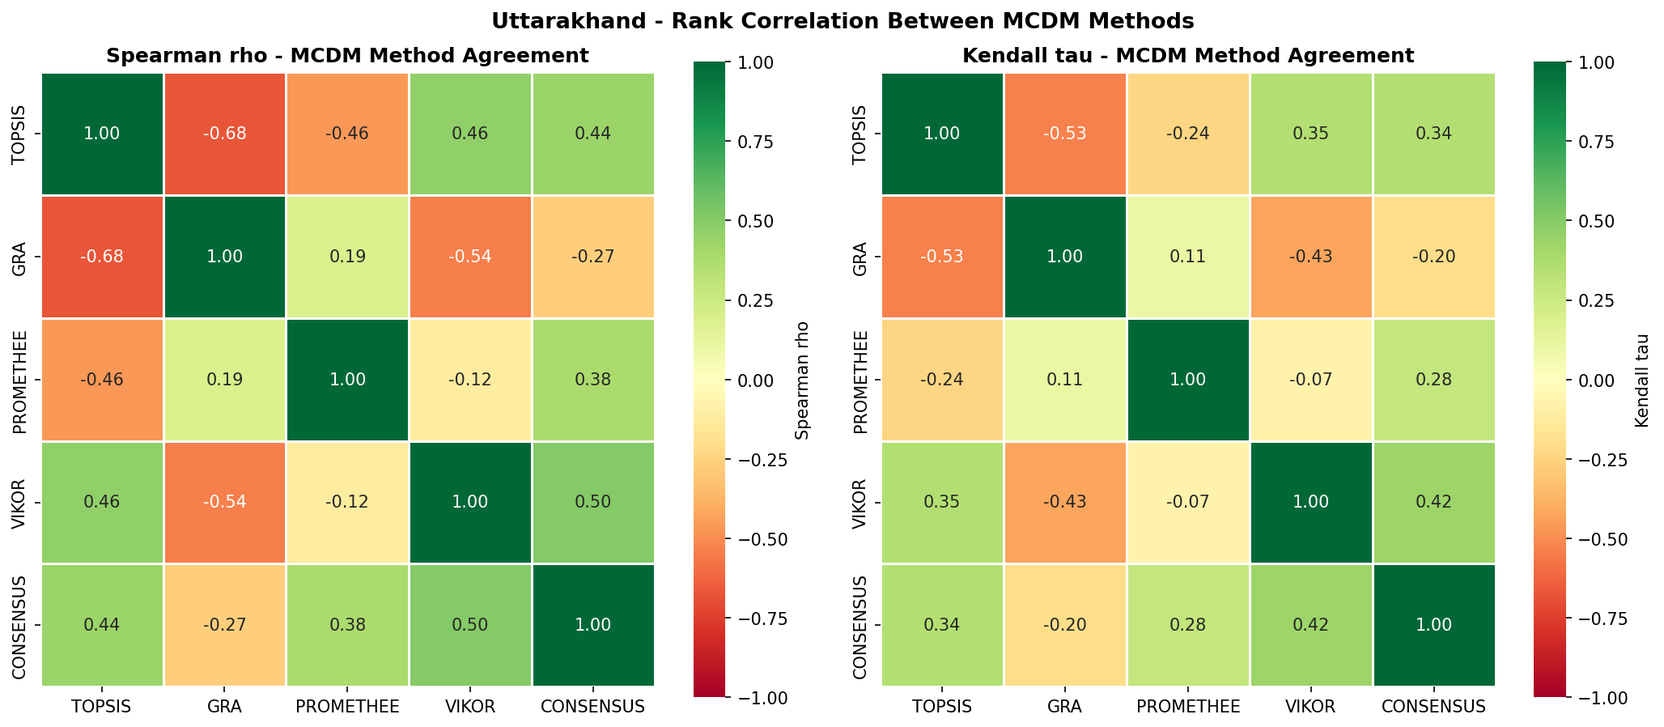
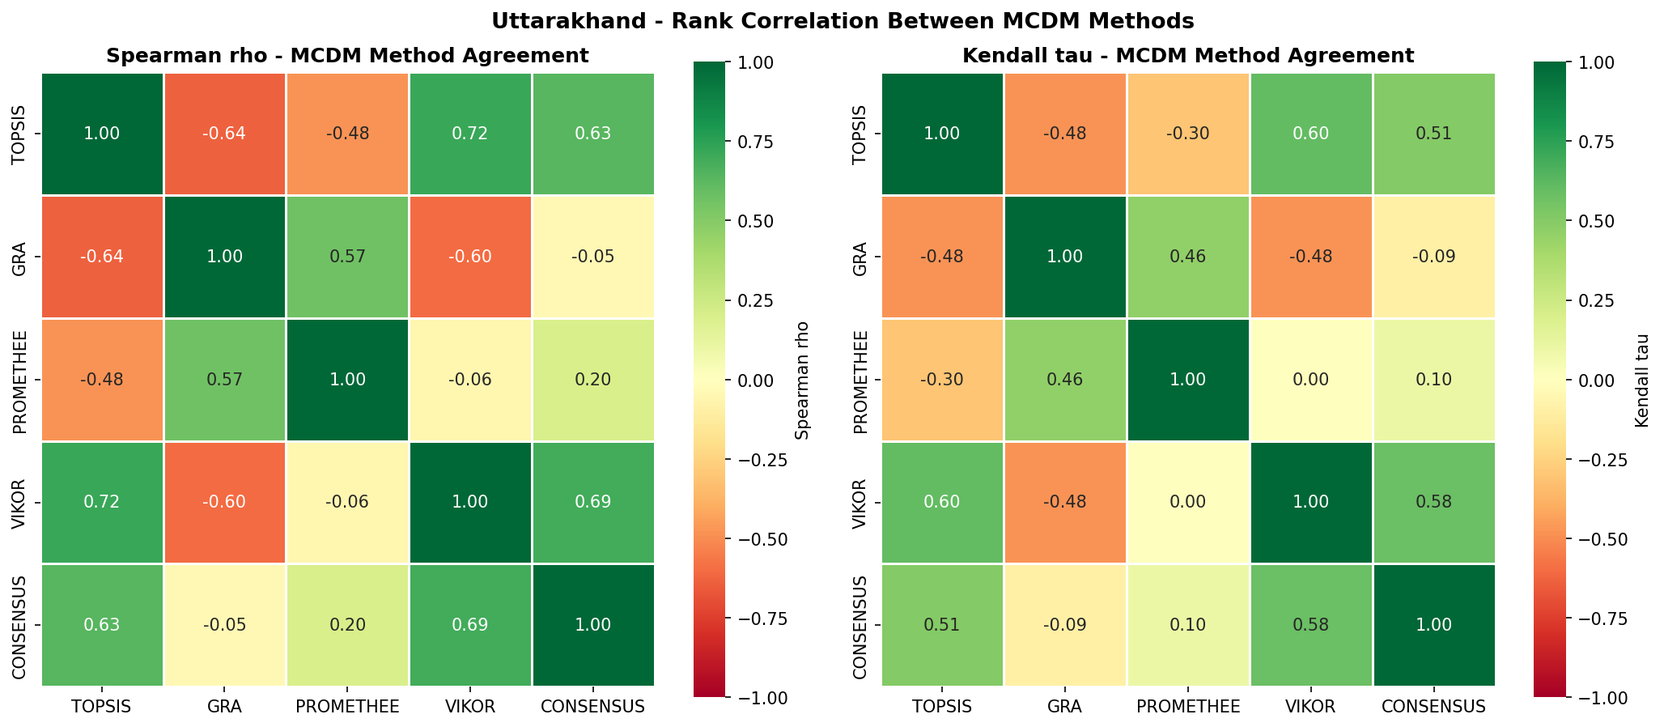
chore(plots): refresh Uttarakhand method-agreement and rank-reversal plots

diff --git a/public/plots/uttarakhand/10_rank_reversal_violin_interactive.html b/public/plots/uttarakhand/10_rank_reversal_violin_interactive.html
@@ -6,6 +6,6 @@
 </head>
 <body>
     <div style="height:100%; width:100%;">                        <script>window.PlotlyConfig = {MathJaxConfig: 'local'};</script>
-        <script charset="utf-8" src="https://cdn.plot.ly/plotly-4.1.1.min.js" integrity="sha256-O24V1F27f8pb0glCkelh3cVHLNiHAJ5gCaVtq2aNch8=" crossorigin="anonymous"></script>                <div id="4254167a-5640-4eeb-8657-a61bd5d6e32b" class="plotly-graph-div" style="height:100%; width:100%;"></div>            <script>                window.PLOTLYENV=window.PLOTLYENV || {};                                if (document.getElementById("4254167a-5640-4eeb-8657-a61bd5d6e32b")) {                    Plotly.newPlot(                        "4254167a-5640-4eeb-8657-a61bd5d6e32b",                        [{"alignmentgroup":"True","box":{"visible":true},"hovertemplate":"Cluster=0\u003cbr\u003eMethod=%{x}\u003cbr\u003eRank=%{y}\u003cextra\u003e\u003c\u002fextra\u003e","legendgroup":"0","marker":{"color":"rgb(228,26,28)"},"name":"0","offsetgroup":"0","orientation":"v","points":"all","scalegroup":"True","showlegend":true,"x":["TOPSIS","TOPSIS","TOPSIS","GRA","GRA","GRA","PROMETHEE","PROMETHEE","PROMETHEE","VIKOR","VIKOR","VIKOR"],"x0":" ","xaxis":"x","y":{"dtype":"i1","bdata":"AQkCBwMIBAIFAQQG"},"y0":" ","yaxis":"y","type":"violin"},{"alignmentgroup":"True","box":{"visible":true},"hovertemplate":"Cluster=1\u003cbr\u003eMethod=%{x}\u003cbr\u003eRank=%{y}\u003cextra\u003e\u003c\u002fextra\u003e","legendgroup":"1","marker":{"color":"rgb(55,126,184)"},"name":"1","offsetgroup":"1","orientation":"v","points":"all","scalegroup":"True","showlegend":true,"x":["TOPSIS","TOPSIS","TOPSIS","GRA","GRA","GRA","PROMETHEE","PROMETHEE","PROMETHEE","VIKOR","VIKOR","VIKOR"],"x0":" ","xaxis":"x","y":{"dtype":"i1","bdata":"AQYICwEDAwIBAQgJ"},"y0":" ","yaxis":"y","type":"violin"},{"alignmentgroup":"True","box":{"visible":true},"hovertemplate":"Cluster=2\u003cbr\u003eMethod=%{x}\u003cbr\u003eRank=%{y}\u003cextra\u003e\u003c\u002fextra\u003e","legendgroup":"2","marker":{"color":"rgb(77,175,74)"},"name":"2","offsetgroup":"2","orientation":"v","points":"all","scalegroup":"True","showlegend":true,"x":["TOPSIS","TOPSIS","TOPSIS","GRA","GRA","GRA","PROMETHEE","PROMETHEE","PROMETHEE","VIKOR","VIKOR","VIKOR"],"x0":" ","xaxis":"x","y":{"dtype":"i1","bdata":"AQIDCAMFBAsNAggE"},"y0":" ","yaxis":"y","type":"violin"},{"alignmentgroup":"True","box":{"visible":true},"hovertemplate":"Cluster=3\u003cbr\u003eMethod=%{x}\u003cbr\u003eRank=%{y}\u003cextra\u003e\u003c\u002fextra\u003e","legendgroup":"3","marker":{"color":"rgb(152,78,163)"},"name":"3","offsetgroup":"3","orientation":"v","points":"all","scalegroup":"True","showlegend":true,"x":["TOPSIS","TOPSIS","TOPSIS","GRA","GRA","GRA","PROMETHEE","PROMETHEE","PROMETHEE","VIKOR","VIKOR","VIKOR"],"x0":" ","xaxis":"x","y":{"dtype":"i1","bdata":"BAECBwUGAQgNBAcB"},"y0":" ","yaxis":"y","type":"violin"},{"alignmentgroup":"True","box":{"visible":true},"hovertemplate":"Cluster=4\u003cbr\u003eMethod=%{x}\u003cbr\u003eRank=%{y}\u003cextra\u003e\u003c\u002fextra\u003e","legendgroup":"4","marker":{"color":"rgb(255,127,0)"},"name":"4","offsetgroup":"4","orientation":"v","points":"all","scalegroup":"True","showlegend":true,"x":["TOPSIS","TOPSIS","TOPSIS","GRA","GRA","GRA","PROMETHEE","PROMETHEE","PROMETHEE","VIKOR","VIKOR","VIKOR"],"x0":" ","xaxis":"x","y":{"dtype":"i1","bdata":"AQkCBwMIBAIFAQQG"},"y0":" ","yaxis":"y","type":"violin"}],                        {"template":{"data":{"barpolar":[{"marker":{"line":{"color":"white","width":0.5},"pattern":{"fillmode":"overlay","size":10,"solidity":0.2}},"type":"barpolar"}],"bar":[{"error_x":{"color":"#2a3f5f"},"error_y":{"color":"#2a3f5f"},"marker":{"line":{"color":"white","width":0.5},"pattern":{"fillmode":"overlay","size":10,"solidity":0.2}},"type":"bar"}],"carpet":[{"aaxis":{"endlinecolor":"#2a3f5f","gridcolor":"#C8D4E3","linecolor":"#C8D4E3","minorgridcolor":"#C8D4E3","startlinecolor":"#2a3f5f"},"baxis":{"endlinecolor":"#2a3f5f","gridcolor":"#C8D4E3","linecolor":"#C8D4E3","minorgridcolor":"#C8D4E3","startlinecolor":"#2a3f5f"},"type":"carpet"}],"choropleth":[{"colorbar":{"outlinewidth":0,"ticks":""},"type":"choropleth"}],"contourcarpet":[{"colorbar":{"outlinewidth":0,"ticks":""},"type":"contourcarpet"}],"contour":[{"colorbar":{"outlinewidth":0,"ticks":""},"colorscale":[[0.0,"#0d0887"],[0.1111111111111111,"#46039f"],[0.2222222222222222,"#7201a8"],[0.3333333333333333,"#9c179e"],[0.4444444444444444,"#bd3786"],[0.5555555555555556,"#d8576b"],[0.6666666666666666,"#ed7953"],[0.7777777777777778,"#fb9f3a"],[0.8888888888888888,"#fdca26"],[1.0,"#f0f921"]],"type":"contour"}],"heatmap":[{"colorbar":{"outlinewidth":0,"ticks":""},"colorscale":[[0.0,"#0d0887"],[0.1111111111111111,"#46039f"],[0.2222222222222222,"#7201a8"],[0.3333333333333333,"#9c179e"],[0.4444444444444444,"#bd3786"],[0.5555555555555556,"#d8576b"],[0.6666666666666666,"#ed7953"],[0.7777777777777778,"#fb9f3a"],[0.8888888888888888,"#fdca26"],[1.0,"#f0f921"]],"type":"heatmap"}],"histogram2dcontour":[{"colorbar":{"outlinewidth":0,"ticks":""},"colorscale":[[0.0,"#0d0887"],[0.1111111111111111,"#46039f"],[0.2222222222222222,"#7201a8"],[0.3333333333333333,"#9c179e"],[0.4444444444444444,"#bd3786"],[0.5555555555555556,"#d8576b"],[0.6666666666666666,"#ed7953"],[0.7777777777777778,"#fb9f3a"],[0.8888888888888888,"#fdca26"],[1.0,"#f0f921"]],"type":"histogram2dcontour"}],"histogram2d":[{"colorbar":{"outlinewidth":0,"ticks":""},"colorscale":[[0.0,"#0d0887"],[0.1111111111111111,"#46039f"],[0.2222222222222222,"#7201a8"],[0.3333333333333333,"#9c179e"],[0.4444444444444444,"#bd3786"],[0.5555555555555556,"#d8576b"],[0.6666666666666666,"#ed7953"],[0.7777777777777778,"#fb9f3a"],[0.8888888888888888,"#fdca26"],[1.0,"#f0f921"]],"type":"histogram2d"}],"histogram":[{"marker":{"pattern":{"fillmode":"overlay","size":10,"solidity":0.2}},"type":"histogram"}],"mesh3d":[{"colorbar":{"outlinewidth":0,"ticks":""},"type":"mesh3d"}],"parcoords":[{"line":{"colorbar":{"outlinewidth":0,"ticks":""}},"type":"parcoords"}],"pie":[{"automargin":true,"type":"pie"}],"scatter3d":[{"line":{"colorbar":{"outlinewidth":0,"ticks":""}},"marker":{"colorbar":{"outlinewidth":0,"ticks":""}},"type":"scatter3d"}],"scattercarpet":[{"marker":{"colorbar":{"outlinewidth":0,"ticks":""}},"type":"scattercarpet"}],"scattergeo":[{"marker":{"colorbar":{"outlinewidth":0,"ticks":""}},"type":"scattergeo"}],"scattergl":[{"marker":{"colorbar":{"outlinewidth":0,"ticks":""}},"type":"scattergl"}],"scattermap":[{"marker":{"colorbar":{"outlinewidth":0,"ticks":""}},"type":"scattermap"}],"scatterpolargl":[{"marker":{"colorbar":{"outlinewidth":0,"ticks":""}},"type":"scatterpolargl"}],"scatterpolar":[{"marker":{"colorbar":{"outlinewidth":0,"ticks":""}},"type":"scatterpolar"}],"scatter":[{"fillpattern":{"fillmode":"overlay","size":10,"solidity":0.2},"type":"scatter"}],"scatterternary":[{"marker":{"colorbar":{"outlinewidth":0,"ticks":""}},"type":"scatterternary"}],"surface":[{"colorbar":{"outlinewidth":0,"ticks":""},"colorscale":[[0.0,"#0d0887"],[0.1111111111111111,"#46039f"],[0.2222222222222222,"#7201a8"],[0.3333333333333333,"#9c179e"],[0.4444444444444444,"#bd3786"],[0.5555555555555556,"#d8576b"],[0.6666666666666666,"#ed7953"],[0.7777777777777778,"#fb9f3a"],[0.8888888888888888,"#fdca26"],[1.0,"#f0f921"]],"type":"surface"}],"table":[{"cells":{"fill":{"color":"#EBF0F8"},"line":{"color":"white"}},"header":{"fill":{"color":"#C8D4E3"},"line":{"color":"white"}},"type":"table"}]},"layout":{"annotationdefaults":{"arrowcolor":"#2a3f5f","arrowhead":0,"arrowwidth":1},"autotypenumbers":"strict","coloraxis":{"colorbar":{"outlinewidth":0,"ticks":""}},"colorscale":{"diverging":[[0,"#8e0152"],[0.1,"#c51b7d"],[0.2,"#de77ae"],[0.3,"#f1b6da"],[0.4,"#fde0ef"],[0.5,"#f7f7f7"],[0.6,"#e6f5d0"],[0.7,"#b8e186"],[0.8,"#7fbc41"],[0.9,"#4d9221"],[1,"#276419"]],"sequential":[[0.0,"#0d0887"],[0.1111111111111111,"#46039f"],[0.2222222222222222,"#7201a8"],[0.3333333333333333,"#9c179e"],[0.4444444444444444,"#bd3786"],[0.5555555555555556,"#d8576b"],[0.6666666666666666,"#ed7953"],[0.7777777777777778,"#fb9f3a"],[0.8888888888888888,"#fdca26"],[1.0,"#f0f921"]],"sequentialminus":[[0.0,"#0d0887"],[0.1111111111111111,"#46039f"],[0.2222222222222222,"#7201a8"],[0.3333333333333333,"#9c179e"],[0.4444444444444444,"#bd3786"],[0.5555555555555556,"#d8576b"],[0.6666666666666666,"#ed7953"],[0.7777777777777778,"#fb9f3a"],[0.8888888888888888,"#fdca26"],[1.0,"#f0f921"]]},"colorway":["#636efa","#EF553B","#00cc96","#ab63fa","#FFA15A","#19d3f3","#FF6692","#B6E880","#FF97FF","#FECB52"],"font":{"color":"#2a3f5f"},"geo":{"bgcolor":"white","lakecolor":"white","landcolor":"white","showlakes":true,"showland":true,"subunitcolor":"#C8D4E3"},"hoverlabel":{"align":"left"},"hovermode":"closest","paper_bgcolor":"white","plot_bgcolor":"white","polar":{"angularaxis":{"gridcolor":"#EBF0F8","linecolor":"#EBF0F8","ticks":""},"bgcolor":"white","radialaxis":{"gridcolor":"#EBF0F8","linecolor":"#EBF0F8","ticks":""}},"scene":{"xaxis":{"backgroundcolor":"white","gridcolor":"#DFE8F3","gridwidth":2,"linecolor":"#EBF0F8","showbackground":true,"ticks":"","zerolinecolor":"#EBF0F8"},"yaxis":{"backgroundcolor":"white","gridcolor":"#DFE8F3","gridwidth":2,"linecolor":"#EBF0F8","showbackground":true,"ticks":"","zerolinecolor":"#EBF0F8"},"zaxis":{"backgroundcolor":"white","gridcolor":"#DFE8F3","gridwidth":2,"linecolor":"#EBF0F8","showbackground":true,"ticks":"","zerolinecolor":"#EBF0F8"}},"shapedefaults":{"line":{"color":"#2a3f5f"}},"ternary":{"aaxis":{"gridcolor":"#DFE8F3","linecolor":"#A2B1C6","ticks":""},"baxis":{"gridcolor":"#DFE8F3","linecolor":"#A2B1C6","ticks":""},"bgcolor":"white","caxis":{"gridcolor":"#DFE8F3","linecolor":"#A2B1C6","ticks":""}},"title":{"x":0.05},"xaxis":{"automargin":true,"gridcolor":"#EBF0F8","linecolor":"#EBF0F8","ticks":"","title":{"standoff":15},"zerolinecolor":"#EBF0F8","zerolinewidth":2},"yaxis":{"automargin":true,"gridcolor":"#EBF0F8","linecolor":"#EBF0F8","ticks":"","title":{"standoff":15},"zerolinecolor":"#EBF0F8","zerolinewidth":2}}},"xaxis":{"anchor":"y","domain":[0.0,1.0],"title":{"text":"Method"}},"yaxis":{"anchor":"x","domain":[0.0,1.0],"title":{"text":"Rank"},"autorange":"reversed"},"legend":{"title":{"text":"Cluster"},"tracegroupgap":0},"title":{"text":"Rank Reversal - Violin Plot (Uttarakhand)"},"violinmode":"group"},                        {"responsive": true}                    )                };            </script>        </div>
+        <script charset="utf-8" src="https://cdn.plot.ly/plotly-4.0.0.min.js" integrity="sha256-FEYfO0yRyLtZCpnW0Dw/0DHKQO7Afrq3ml4+rBB818o=" crossorigin="anonymous"></script>                <div id="7b50f67f-b77a-491b-b4f2-f1310f0972ac" class="plotly-graph-div" style="height:100%; width:100%;"></div>            <script>                window.PLOTLYENV=window.PLOTLYENV || {};                                if (document.getElementById("7b50f67f-b77a-491b-b4f2-f1310f0972ac")) {                    Plotly.newPlot(                        "7b50f67f-b77a-491b-b4f2-f1310f0972ac",                        [{"alignmentgroup":"True","box":{"visible":true},"hovertemplate":"Cluster=0\u003cbr\u003eMethod=%{x}\u003cbr\u003eRank=%{y}\u003cextra\u003e\u003c\u002fextra\u003e","legendgroup":"0","marker":{"color":"rgb(228,26,28)"},"name":"0","offsetgroup":"0","orientation":"v","points":"all","scalegroup":"True","showlegend":true,"x":["TOPSIS","TOPSIS","TOPSIS","GRA","GRA","GRA","PROMETHEE","PROMETHEE","PROMETHEE","VIKOR","VIKOR","VIKOR"],"x0":" ","xaxis":"x","y":{"dtype":"i1","bdata":"AQkCBwMIBAIFAQQG"},"y0":" ","yaxis":"y","type":"violin"},{"alignmentgroup":"True","box":{"visible":true},"hovertemplate":"Cluster=1\u003cbr\u003eMethod=%{x}\u003cbr\u003eRank=%{y}\u003cextra\u003e\u003c\u002fextra\u003e","legendgroup":"1","marker":{"color":"rgb(55,126,184)"},"name":"1","offsetgroup":"1","orientation":"v","points":"all","scalegroup":"True","showlegend":true,"x":["TOPSIS","TOPSIS","TOPSIS","GRA","GRA","GRA","PROMETHEE","PROMETHEE","PROMETHEE","VIKOR","VIKOR","VIKOR"],"x0":" ","xaxis":"x","y":{"dtype":"i1","bdata":"AQkCBwMIBAIFAQQG"},"y0":" ","yaxis":"y","type":"violin"},{"alignmentgroup":"True","box":{"visible":true},"hovertemplate":"Cluster=2\u003cbr\u003eMethod=%{x}\u003cbr\u003eRank=%{y}\u003cextra\u003e\u003c\u002fextra\u003e","legendgroup":"2","marker":{"color":"rgb(77,175,74)"},"name":"2","offsetgroup":"2","orientation":"v","points":"all","scalegroup":"True","showlegend":true,"x":["TOPSIS","TOPSIS","TOPSIS","GRA","GRA","GRA","PROMETHEE","PROMETHEE","PROMETHEE","VIKOR","VIKOR","VIKOR"],"x0":" ","xaxis":"x","y":{"dtype":"i1","bdata":"AQIJCAMBBAsCAggN"},"y0":" ","yaxis":"y","type":"violin"},{"alignmentgroup":"True","box":{"visible":true},"hovertemplate":"Cluster=3\u003cbr\u003eMethod=%{x}\u003cbr\u003eRank=%{y}\u003cextra\u003e\u003c\u002fextra\u003e","legendgroup":"3","marker":{"color":"rgb(152,78,163)"},"name":"3","offsetgroup":"3","orientation":"v","points":"all","scalegroup":"True","showlegend":true,"x":["TOPSIS","TOPSIS","TOPSIS","GRA","GRA","GRA","PROMETHEE","PROMETHEE","PROMETHEE","VIKOR","VIKOR","VIKOR"],"x0":" ","xaxis":"x","y":{"dtype":"i1","bdata":"AQYCCwEMAwIFAQgC"},"y0":" ","yaxis":"y","type":"violin"}],                        {"template":{"data":{"barpolar":[{"marker":{"line":{"color":"white","width":0.5},"pattern":{"fillmode":"overlay","size":10,"solidity":0.2}},"type":"barpolar"}],"bar":[{"error_x":{"color":"#2a3f5f"},"error_y":{"color":"#2a3f5f"},"marker":{"line":{"color":"white","width":0.5},"pattern":{"fillmode":"overlay","size":10,"solidity":0.2}},"type":"bar"}],"carpet":[{"aaxis":{"endlinecolor":"#2a3f5f","gridcolor":"#C8D4E3","linecolor":"#C8D4E3","minorgridcolor":"#C8D4E3","startlinecolor":"#2a3f5f"},"baxis":{"endlinecolor":"#2a3f5f","gridcolor":"#C8D4E3","linecolor":"#C8D4E3","minorgridcolor":"#C8D4E3","startlinecolor":"#2a3f5f"},"type":"carpet"}],"choropleth":[{"colorbar":{"outlinewidth":0,"ticks":""},"type":"choropleth"}],"contourcarpet":[{"colorbar":{"outlinewidth":0,"ticks":""},"type":"contourcarpet"}],"contour":[{"colorbar":{"outlinewidth":0,"ticks":""},"colorscale":[[0.0,"#0d0887"],[0.1111111111111111,"#46039f"],[0.2222222222222222,"#7201a8"],[0.3333333333333333,"#9c179e"],[0.4444444444444444,"#bd3786"],[0.5555555555555556,"#d8576b"],[0.6666666666666666,"#ed7953"],[0.7777777777777778,"#fb9f3a"],[0.8888888888888888,"#fdca26"],[1.0,"#f0f921"]],"type":"contour"}],"heatmap":[{"colorbar":{"outlinewidth":0,"ticks":""},"colorscale":[[0.0,"#0d0887"],[0.1111111111111111,"#46039f"],[0.2222222222222222,"#7201a8"],[0.3333333333333333,"#9c179e"],[0.4444444444444444,"#bd3786"],[0.5555555555555556,"#d8576b"],[0.6666666666666666,"#ed7953"],[0.7777777777777778,"#fb9f3a"],[0.8888888888888888,"#fdca26"],[1.0,"#f0f921"]],"type":"heatmap"}],"histogram2dcontour":[{"colorbar":{"outlinewidth":0,"ticks":""},"colorscale":[[0.0,"#0d0887"],[0.1111111111111111,"#46039f"],[0.2222222222222222,"#7201a8"],[0.3333333333333333,"#9c179e"],[0.4444444444444444,"#bd3786"],[0.5555555555555556,"#d8576b"],[0.6666666666666666,"#ed7953"],[0.7777777777777778,"#fb9f3a"],[0.8888888888888888,"#fdca26"],[1.0,"#f0f921"]],"type":"histogram2dcontour"}],"histogram2d":[{"colorbar":{"outlinewidth":0,"ticks":""},"colorscale":[[0.0,"#0d0887"],[0.1111111111111111,"#46039f"],[0.2222222222222222,"#7201a8"],[0.3333333333333333,"#9c179e"],[0.4444444444444444,"#bd3786"],[0.5555555555555556,"#d8576b"],[0.6666666666666666,"#ed7953"],[0.7777777777777778,"#fb9f3a"],[0.8888888888888888,"#fdca26"],[1.0,"#f0f921"]],"type":"histogram2d"}],"histogram":[{"marker":{"pattern":{"fillmode":"overlay","size":10,"solidity":0.2}},"type":"histogram"}],"mesh3d":[{"colorbar":{"outlinewidth":0,"ticks":""},"type":"mesh3d"}],"parcoords":[{"line":{"colorbar":{"outlinewidth":0,"ticks":""}},"type":"parcoords"}],"pie":[{"automargin":true,"type":"pie"}],"scatter3d":[{"line":{"colorbar":{"outlinewidth":0,"ticks":""}},"marker":{"colorbar":{"outlinewidth":0,"ticks":""}},"type":"scatter3d"}],"scattercarpet":[{"marker":{"colorbar":{"outlinewidth":0,"ticks":""}},"type":"scattercarpet"}],"scattergeo":[{"marker":{"colorbar":{"outlinewidth":0,"ticks":""}},"type":"scattergeo"}],"scattergl":[{"marker":{"colorbar":{"outlinewidth":0,"ticks":""}},"type":"scattergl"}],"scattermap":[{"marker":{"colorbar":{"outlinewidth":0,"ticks":""}},"type":"scattermap"}],"scatterpolargl":[{"marker":{"colorbar":{"outlinewidth":0,"ticks":""}},"type":"scatterpolargl"}],"scatterpolar":[{"marker":{"colorbar":{"outlinewidth":0,"ticks":""}},"type":"scatterpolar"}],"scatter":[{"fillpattern":{"fillmode":"overlay","size":10,"solidity":0.2},"type":"scatter"}],"scatterternary":[{"marker":{"colorbar":{"outlinewidth":0,"ticks":""}},"type":"scatterternary"}],"surface":[{"colorbar":{"outlinewidth":0,"ticks":""},"colorscale":[[0.0,"#0d0887"],[0.1111111111111111,"#46039f"],[0.2222222222222222,"#7201a8"],[0.3333333333333333,"#9c179e"],[0.4444444444444444,"#bd3786"],[0.5555555555555556,"#d8576b"],[0.6666666666666666,"#ed7953"],[0.7777777777777778,"#fb9f3a"],[0.8888888888888888,"#fdca26"],[1.0,"#f0f921"]],"type":"surface"}],"table":[{"cells":{"fill":{"color":"#EBF0F8"},"line":{"color":"white"}},"header":{"fill":{"color":"#C8D4E3"},"line":{"color":"white"}},"type":"table"}]},"layout":{"annotationdefaults":{"arrowcolor":"#2a3f5f","arrowhead":0,"arrowwidth":1},"autotypenumbers":"strict","coloraxis":{"colorbar":{"outlinewidth":0,"ticks":""}},"colorscale":{"diverging":[[0,"#8e0152"],[0.1,"#c51b7d"],[0.2,"#de77ae"],[0.3,"#f1b6da"],[0.4,"#fde0ef"],[0.5,"#f7f7f7"],[0.6,"#e6f5d0"],[0.7,"#b8e186"],[0.8,"#7fbc41"],[0.9,"#4d9221"],[1,"#276419"]],"sequential":[[0.0,"#0d0887"],[0.1111111111111111,"#46039f"],[0.2222222222222222,"#7201a8"],[0.3333333333333333,"#9c179e"],[0.4444444444444444,"#bd3786"],[0.5555555555555556,"#d8576b"],[0.6666666666666666,"#ed7953"],[0.7777777777777778,"#fb9f3a"],[0.8888888888888888,"#fdca26"],[1.0,"#f0f921"]],"sequentialminus":[[0.0,"#0d0887"],[0.1111111111111111,"#46039f"],[0.2222222222222222,"#7201a8"],[0.3333333333333333,"#9c179e"],[0.4444444444444444,"#bd3786"],[0.5555555555555556,"#d8576b"],[0.6666666666666666,"#ed7953"],[0.7777777777777778,"#fb9f3a"],[0.8888888888888888,"#fdca26"],[1.0,"#f0f921"]]},"colorway":["#636efa","#EF553B","#00cc96","#ab63fa","#FFA15A","#19d3f3","#FF6692","#B6E880","#FF97FF","#FECB52"],"font":{"color":"#2a3f5f"},"geo":{"bgcolor":"white","lakecolor":"white","landcolor":"white","showlakes":true,"showland":true,"subunitcolor":"#C8D4E3"},"hoverlabel":{"align":"left"},"hovermode":"closest","paper_bgcolor":"white","plot_bgcolor":"white","polar":{"angularaxis":{"gridcolor":"#EBF0F8","linecolor":"#EBF0F8","ticks":""},"bgcolor":"white","radialaxis":{"gridcolor":"#EBF0F8","linecolor":"#EBF0F8","ticks":""}},"scene":{"xaxis":{"backgroundcolor":"white","gridcolor":"#DFE8F3","gridwidth":2,"linecolor":"#EBF0F8","showbackground":true,"ticks":"","zerolinecolor":"#EBF0F8"},"yaxis":{"backgroundcolor":"white","gridcolor":"#DFE8F3","gridwidth":2,"linecolor":"#EBF0F8","showbackground":true,"ticks":"","zerolinecolor":"#EBF0F8"},"zaxis":{"backgroundcolor":"white","gridcolor":"#DFE8F3","gridwidth":2,"linecolor":"#EBF0F8","showbackground":true,"ticks":"","zerolinecolor":"#EBF0F8"}},"shapedefaults":{"line":{"color":"#2a3f5f"}},"ternary":{"aaxis":{"gridcolor":"#DFE8F3","linecolor":"#A2B1C6","ticks":""},"baxis":{"gridcolor":"#DFE8F3","linecolor":"#A2B1C6","ticks":""},"bgcolor":"white","caxis":{"gridcolor":"#DFE8F3","linecolor":"#A2B1C6","ticks":""}},"title":{"x":0.05},"xaxis":{"automargin":true,"gridcolor":"#EBF0F8","linecolor":"#EBF0F8","ticks":"","title":{"standoff":15},"zerolinecolor":"#EBF0F8","zerolinewidth":2},"yaxis":{"automargin":true,"gridcolor":"#EBF0F8","linecolor":"#EBF0F8","ticks":"","title":{"standoff":15},"zerolinecolor":"#EBF0F8","zerolinewidth":2}}},"xaxis":{"anchor":"y","domain":[0.0,1.0],"title":{"text":"Method"}},"yaxis":{"anchor":"x","domain":[0.0,1.0],"title":{"text":"Rank"},"autorange":"reversed"},"legend":{"title":{"text":"Cluster"},"tracegroupgap":0},"title":{"text":"Rank Reversal - Violin Plot (Uttarakhand)"},"violinmode":"group"},                        {"responsive": true}                    )                };            </script>        </div>
 </body>
 </html>

diff --git a/public/plots/uttarakhand/08_method_rank_correlation_heatmap_interactive.html b/public/plots/uttarakhand/08_method_rank_correlation_heatmap_interactive.html
@@ -6,6 +6,6 @@
 </head>
 <body>
     <div style="height:100%; width:100%;">                        <script>window.PlotlyConfig = {MathJaxConfig: 'local'};</script>
-        <script charset="utf-8" src="https://cdn.plot.ly/plotly-4.1.1.min.js" integrity="sha256-O24V1F27f8pb0glCkelh3cVHLNiHAJ5gCaVtq2aNch8=" crossorigin="anonymous"></script>                <div id="fc6c80c1-711f-47c9-83c4-0d2b783f7af7" class="plotly-graph-div" style="height:100%; width:100%;"></div>            <script>                window.PLOTLYENV=window.PLOTLYENV || {};                                if (document.getElementById("fc6c80c1-711f-47c9-83c4-0d2b783f7af7")) {                    Plotly.newPlot(                        "fc6c80c1-711f-47c9-83c4-0d2b783f7af7",                        [{"coloraxis":"coloraxis","name":"0","texttemplate":"%{z:.2f}","x":["TOPSIS","GRA","PROMETHEE","VIKOR","CONSENSUS"],"y":["TOPSIS","GRA","PROMETHEE","VIKOR","CONSENSUS"],"z":{"dtype":"f8","bdata":"AAAAAAAA8D9hDqbYAK\u002flv90Mq2jEv92\u002fqnGGJAeD3T8Pin6a3P\u002fbP2EOptgAr+W\u002fAAAAAAAA8D+Kvrm4ZeXIP1Jj4ls9cOG\u002fbtsb8UI60b\u002fdDKtoxL\u002fdv4q+ubhl5cg\u002fAAAAAAAA8D8On\u002fxO5mG+vxM2Rf1Mbtg\u002fqnGGJAeD3T9SY+JbPXDhvw6f\u002fE7mYb6\u002fAAAAAAAA8D\u002f7IWoYpQrgPw+Kfprc\u002f9s\u002fbtsb8UI60b8TNkX9TG7YP\u002fshahilCuA\u002fAAAAAAAA8D8=","shape":"5, 5"},"type":"heatmap","xaxis":"x","yaxis":"y","hovertemplate":"x: %{x}\u003cbr\u003ey: %{y}\u003cbr\u003ecolor: %{z}\u003cextra\u003e\u003c\u002fextra\u003e"}],                        {"template":{"data":{"barpolar":[{"marker":{"line":{"color":"white","width":0.5},"pattern":{"fillmode":"overlay","size":10,"solidity":0.2}},"type":"barpolar"}],"bar":[{"error_x":{"color":"#2a3f5f"},"error_y":{"color":"#2a3f5f"},"marker":{"line":{"color":"white","width":0.5},"pattern":{"fillmode":"overlay","size":10,"solidity":0.2}},"type":"bar"}],"carpet":[{"aaxis":{"endlinecolor":"#2a3f5f","gridcolor":"#C8D4E3","linecolor":"#C8D4E3","minorgridcolor":"#C8D4E3","startlinecolor":"#2a3f5f"},"baxis":{"endlinecolor":"#2a3f5f","gridcolor":"#C8D4E3","linecolor":"#C8D4E3","minorgridcolor":"#C8D4E3","startlinecolor":"#2a3f5f"},"type":"carpet"}],"choropleth":[{"colorbar":{"outlinewidth":0,"ticks":""},"type":"choropleth"}],"contourcarpet":[{"colorbar":{"outlinewidth":0,"ticks":""},"type":"contourcarpet"}],"contour":[{"colorbar":{"outlinewidth":0,"ticks":""},"colorscale":[[0.0,"#0d0887"],[0.1111111111111111,"#46039f"],[0.2222222222222222,"#7201a8"],[0.3333333333333333,"#9c179e"],[0.4444444444444444,"#bd3786"],[0.5555555555555556,"#d8576b"],[0.6666666666666666,"#ed7953"],[0.7777777777777778,"#fb9f3a"],[0.8888888888888888,"#fdca26"],[1.0,"#f0f921"]],"type":"contour"}],"heatmap":[{"colorbar":{"outlinewidth":0,"ticks":""},"colorscale":[[0.0,"#0d0887"],[0.1111111111111111,"#46039f"],[0.2222222222222222,"#7201a8"],[0.3333333333333333,"#9c179e"],[0.4444444444444444,"#bd3786"],[0.5555555555555556,"#d8576b"],[0.6666666666666666,"#ed7953"],[0.7777777777777778,"#fb9f3a"],[0.8888888888888888,"#fdca26"],[1.0,"#f0f921"]],"type":"heatmap"}],"histogram2dcontour":[{"colorbar":{"outlinewidth":0,"ticks":""},"colorscale":[[0.0,"#0d0887"],[0.1111111111111111,"#46039f"],[0.2222222222222222,"#7201a8"],[0.3333333333333333,"#9c179e"],[0.4444444444444444,"#bd3786"],[0.5555555555555556,"#d8576b"],[0.6666666666666666,"#ed7953"],[0.7777777777777778,"#fb9f3a"],[0.8888888888888888,"#fdca26"],[1.0,"#f0f921"]],"type":"histogram2dcontour"}],"histogram2d":[{"colorbar":{"outlinewidth":0,"ticks":""},"colorscale":[[0.0,"#0d0887"],[0.1111111111111111,"#46039f"],[0.2222222222222222,"#7201a8"],[0.3333333333333333,"#9c179e"],[0.4444444444444444,"#bd3786"],[0.5555555555555556,"#d8576b"],[0.6666666666666666,"#ed7953"],[0.7777777777777778,"#fb9f3a"],[0.8888888888888888,"#fdca26"],[1.0,"#f0f921"]],"type":"histogram2d"}],"histogram":[{"marker":{"pattern":{"fillmode":"overlay","size":10,"solidity":0.2}},"type":"histogram"}],"mesh3d":[{"colorbar":{"outlinewidth":0,"ticks":""},"type":"mesh3d"}],"parcoords":[{"line":{"colorbar":{"outlinewidth":0,"ticks":""}},"type":"parcoords"}],"pie":[{"automargin":true,"type":"pie"}],"scatter3d":[{"line":{"colorbar":{"outlinewidth":0,"ticks":""}},"marker":{"colorbar":{"outlinewidth":0,"ticks":""}},"type":"scatter3d"}],"scattercarpet":[{"marker":{"colorbar":{"outlinewidth":0,"ticks":""}},"type":"scattercarpet"}],"scattergeo":[{"marker":{"colorbar":{"outlinewidth":0,"ticks":""}},"type":"scattergeo"}],"scattergl":[{"marker":{"colorbar":{"outlinewidth":0,"ticks":""}},"type":"scattergl"}],"scattermap":[{"marker":{"colorbar":{"outlinewidth":0,"ticks":""}},"type":"scattermap"}],"scatterpolargl":[{"marker":{"colorbar":{"outlinewidth":0,"ticks":""}},"type":"scatterpolargl"}],"scatterpolar":[{"marker":{"colorbar":{"outlinewidth":0,"ticks":""}},"type":"scatterpolar"}],"scatter":[{"fillpattern":{"fillmode":"overlay","size":10,"solidity":0.2},"type":"scatter"}],"scatterternary":[{"marker":{"colorbar":{"outlinewidth":0,"ticks":""}},"type":"scatterternary"}],"surface":[{"colorbar":{"outlinewidth":0,"ticks":""},"colorscale":[[0.0,"#0d0887"],[0.1111111111111111,"#46039f"],[0.2222222222222222,"#7201a8"],[0.3333333333333333,"#9c179e"],[0.4444444444444444,"#bd3786"],[0.5555555555555556,"#d8576b"],[0.6666666666666666,"#ed7953"],[0.7777777777777778,"#fb9f3a"],[0.8888888888888888,"#fdca26"],[1.0,"#f0f921"]],"type":"surface"}],"table":[{"cells":{"fill":{"color":"#EBF0F8"},"line":{"color":"white"}},"header":{"fill":{"color":"#C8D4E3"},"line":{"color":"white"}},"type":"table"}]},"layout":{"annotationdefaults":{"arrowcolor":"#2a3f5f","arrowhead":0,"arrowwidth":1},"autotypenumbers":"strict","coloraxis":{"colorbar":{"outlinewidth":0,"ticks":""}},"colorscale":{"diverging":[[0,"#8e0152"],[0.1,"#c51b7d"],[0.2,"#de77ae"],[0.3,"#f1b6da"],[0.4,"#fde0ef"],[0.5,"#f7f7f7"],[0.6,"#e6f5d0"],[0.7,"#b8e186"],[0.8,"#7fbc41"],[0.9,"#4d9221"],[1,"#276419"]],"sequential":[[0.0,"#0d0887"],[0.1111111111111111,"#46039f"],[0.2222222222222222,"#7201a8"],[0.3333333333333333,"#9c179e"],[0.4444444444444444,"#bd3786"],[0.5555555555555556,"#d8576b"],[0.6666666666666666,"#ed7953"],[0.7777777777777778,"#fb9f3a"],[0.8888888888888888,"#fdca26"],[1.0,"#f0f921"]],"sequentialminus":[[0.0,"#0d0887"],[0.1111111111111111,"#46039f"],[0.2222222222222222,"#7201a8"],[0.3333333333333333,"#9c179e"],[0.4444444444444444,"#bd3786"],[0.5555555555555556,"#d8576b"],[0.6666666666666666,"#ed7953"],[0.7777777777777778,"#fb9f3a"],[0.8888888888888888,"#fdca26"],[1.0,"#f0f921"]]},"colorway":["#636efa","#EF553B","#00cc96","#ab63fa","#FFA15A","#19d3f3","#FF6692","#B6E880","#FF97FF","#FECB52"],"font":{"color":"#2a3f5f"},"geo":{"bgcolor":"white","lakecolor":"white","landcolor":"white","showlakes":true,"showland":true,"subunitcolor":"#C8D4E3"},"hoverlabel":{"align":"left"},"hovermode":"closest","paper_bgcolor":"white","plot_bgcolor":"white","polar":{"angularaxis":{"gridcolor":"#EBF0F8","linecolor":"#EBF0F8","ticks":""},"bgcolor":"white","radialaxis":{"gridcolor":"#EBF0F8","linecolor":"#EBF0F8","ticks":""}},"scene":{"xaxis":{"backgroundcolor":"white","gridcolor":"#DFE8F3","gridwidth":2,"linecolor":"#EBF0F8","showbackground":true,"ticks":"","zerolinecolor":"#EBF0F8"},"yaxis":{"backgroundcolor":"white","gridcolor":"#DFE8F3","gridwidth":2,"linecolor":"#EBF0F8","showbackground":true,"ticks":"","zerolinecolor":"#EBF0F8"},"zaxis":{"backgroundcolor":"white","gridcolor":"#DFE8F3","gridwidth":2,"linecolor":"#EBF0F8","showbackground":true,"ticks":"","zerolinecolor":"#EBF0F8"}},"shapedefaults":{"line":{"color":"#2a3f5f"}},"ternary":{"aaxis":{"gridcolor":"#DFE8F3","linecolor":"#A2B1C6","ticks":""},"baxis":{"gridcolor":"#DFE8F3","linecolor":"#A2B1C6","ticks":""},"bgcolor":"white","caxis":{"gridcolor":"#DFE8F3","linecolor":"#A2B1C6","ticks":""}},"title":{"x":0.05},"xaxis":{"automargin":true,"gridcolor":"#EBF0F8","linecolor":"#EBF0F8","ticks":"","title":{"standoff":15},"zerolinecolor":"#EBF0F8","zerolinewidth":2},"yaxis":{"automargin":true,"gridcolor":"#EBF0F8","linecolor":"#EBF0F8","ticks":"","title":{"standoff":15},"zerolinecolor":"#EBF0F8","zerolinewidth":2}}},"xaxis":{"anchor":"y","domain":[0.0,1.0],"scaleanchor":"y","constrain":"domain"},"yaxis":{"anchor":"x","domain":[0.0,1.0],"autorange":"reversed","constrain":"domain"},"coloraxis":{"colorscale":[[0.0,"rgb(165,0,38)"],[0.1,"rgb(215,48,39)"],[0.2,"rgb(244,109,67)"],[0.3,"rgb(253,174,97)"],[0.4,"rgb(254,224,139)"],[0.5,"rgb(255,255,191)"],[0.6,"rgb(217,239,139)"],[0.7,"rgb(166,217,106)"],[0.8,"rgb(102,189,99)"],[0.9,"rgb(26,152,80)"],[1.0,"rgb(0,104,55)"]],"cmin":-1,"cmax":1,"autocolorscale":false},"title":{"text":"Uttarakhand - Spearman rho Between MCDM Ranking Methods"}},                        {"responsive": true}                    )                };            </script>        </div>
+        <script charset="utf-8" src="https://cdn.plot.ly/plotly-4.0.0.min.js" integrity="sha256-FEYfO0yRyLtZCpnW0Dw/0DHKQO7Afrq3ml4+rBB818o=" crossorigin="anonymous"></script>                <div id="b08d9df4-8239-40f8-a12e-37ac6a72befa" class="plotly-graph-div" style="height:100%; width:100%;"></div>            <script>                window.PLOTLYENV=window.PLOTLYENV || {};                                if (document.getElementById("b08d9df4-8239-40f8-a12e-37ac6a72befa")) {                    Plotly.newPlot(                        "b08d9df4-8239-40f8-a12e-37ac6a72befa",                        [{"coloraxis":"coloraxis","name":"0","texttemplate":"%{z:.2f}","x":["TOPSIS","GRA","PROMETHEE","VIKOR","CONSENSUS"],"y":["TOPSIS","GRA","PROMETHEE","VIKOR","CONSENSUS"],"z":{"dtype":"f8","bdata":"AAAAAAAA8D9Ah7tmUVnkvx\u002fgoM1J6t6\u002fXhJlGoPx5j+Oqwp0j0PkP0CHu2ZRWeS\u002fAAAAAAAA8D88XBN7vTziP9eugrGtWeO\u002fAKdtmDQdp78f4KDNSerevzxcE3u9POI\u002fAAAAAAAA8D8b39S3EBOtv6bPkFBHack\u002fXhJlGoPx5j\u002fXroKxrVnjvxvf1LcQE62\u002fAAAAAAAA8D\u002fxP8FpOBLmP46rCnSPQ+Q\u002fAKdtmDQdp7+mz5BQR2nJP\u002fE\u002fwWk4EuY\u002fAAAAAAAA8D8=","shape":"5, 5"},"type":"heatmap","xaxis":"x","yaxis":"y","hovertemplate":"x: %{x}\u003cbr\u003ey: %{y}\u003cbr\u003ecolor: %{z}\u003cextra\u003e\u003c\u002fextra\u003e"}],                        {"template":{"data":{"barpolar":[{"marker":{"line":{"color":"white","width":0.5},"pattern":{"fillmode":"overlay","size":10,"solidity":0.2}},"type":"barpolar"}],"bar":[{"error_x":{"color":"#2a3f5f"},"error_y":{"color":"#2a3f5f"},"marker":{"line":{"color":"white","width":0.5},"pattern":{"fillmode":"overlay","size":10,"solidity":0.2}},"type":"bar"}],"carpet":[{"aaxis":{"endlinecolor":"#2a3f5f","gridcolor":"#C8D4E3","linecolor":"#C8D4E3","minorgridcolor":"#C8D4E3","startlinecolor":"#2a3f5f"},"baxis":{"endlinecolor":"#2a3f5f","gridcolor":"#C8D4E3","linecolor":"#C8D4E3","minorgridcolor":"#C8D4E3","startlinecolor":"#2a3f5f"},"type":"carpet"}],"choropleth":[{"colorbar":{"outlinewidth":0,"ticks":""},"type":"choropleth"}],"contourcarpet":[{"colorbar":{"outlinewidth":0,"ticks":""},"type":"contourcarpet"}],"contour":[{"colorbar":{"outlinewidth":0,"ticks":""},"colorscale":[[0.0,"#0d0887"],[0.1111111111111111,"#46039f"],[0.2222222222222222,"#7201a8"],[0.3333333333333333,"#9c179e"],[0.4444444444444444,"#bd3786"],[0.5555555555555556,"#d8576b"],[0.6666666666666666,"#ed7953"],[0.7777777777777778,"#fb9f3a"],[0.8888888888888888,"#fdca26"],[1.0,"#f0f921"]],"type":"contour"}],"heatmap":[{"colorbar":{"outlinewidth":0,"ticks":""},"colorscale":[[0.0,"#0d0887"],[0.1111111111111111,"#46039f"],[0.2222222222222222,"#7201a8"],[0.3333333333333333,"#9c179e"],[0.4444444444444444,"#bd3786"],[0.5555555555555556,"#d8576b"],[0.6666666666666666,"#ed7953"],[0.7777777777777778,"#fb9f3a"],[0.8888888888888888,"#fdca26"],[1.0,"#f0f921"]],"type":"heatmap"}],"histogram2dcontour":[{"colorbar":{"outlinewidth":0,"ticks":""},"colorscale":[[0.0,"#0d0887"],[0.1111111111111111,"#46039f"],[0.2222222222222222,"#7201a8"],[0.3333333333333333,"#9c179e"],[0.4444444444444444,"#bd3786"],[0.5555555555555556,"#d8576b"],[0.6666666666666666,"#ed7953"],[0.7777777777777778,"#fb9f3a"],[0.8888888888888888,"#fdca26"],[1.0,"#f0f921"]],"type":"histogram2dcontour"}],"histogram2d":[{"colorbar":{"outlinewidth":0,"ticks":""},"colorscale":[[0.0,"#0d0887"],[0.1111111111111111,"#46039f"],[0.2222222222222222,"#7201a8"],[0.3333333333333333,"#9c179e"],[0.4444444444444444,"#bd3786"],[0.5555555555555556,"#d8576b"],[0.6666666666666666,"#ed7953"],[0.7777777777777778,"#fb9f3a"],[0.8888888888888888,"#fdca26"],[1.0,"#f0f921"]],"type":"histogram2d"}],"histogram":[{"marker":{"pattern":{"fillmode":"overlay","size":10,"solidity":0.2}},"type":"histogram"}],"mesh3d":[{"colorbar":{"outlinewidth":0,"ticks":""},"type":"mesh3d"}],"parcoords":[{"line":{"colorbar":{"outlinewidth":0,"ticks":""}},"type":"parcoords"}],"pie":[{"automargin":true,"type":"pie"}],"scatter3d":[{"line":{"colorbar":{"outlinewidth":0,"ticks":""}},"marker":{"colorbar":{"outlinewidth":0,"ticks":""}},"type":"scatter3d"}],"scattercarpet":[{"marker":{"colorbar":{"outlinewidth":0,"ticks":""}},"type":"scattercarpet"}],"scattergeo":[{"marker":{"colorbar":{"outlinewidth":0,"ticks":""}},"type":"scattergeo"}],"scattergl":[{"marker":{"colorbar":{"outlinewidth":0,"ticks":""}},"type":"scattergl"}],"scattermap":[{"marker":{"colorbar":{"outlinewidth":0,"ticks":""}},"type":"scattermap"}],"scatterpolargl":[{"marker":{"colorbar":{"outlinewidth":0,"ticks":""}},"type":"scatterpolargl"}],"scatterpolar":[{"marker":{"colorbar":{"outlinewidth":0,"ticks":""}},"type":"scatterpolar"}],"scatter":[{"fillpattern":{"fillmode":"overlay","size":10,"solidity":0.2},"type":"scatter"}],"scatterternary":[{"marker":{"colorbar":{"outlinewidth":0,"ticks":""}},"type":"scatterternary"}],"surface":[{"colorbar":{"outlinewidth":0,"ticks":""},"colorscale":[[0.0,"#0d0887"],[0.1111111111111111,"#46039f"],[0.2222222222222222,"#7201a8"],[0.3333333333333333,"#9c179e"],[0.4444444444444444,"#bd3786"],[0.5555555555555556,"#d8576b"],[0.6666666666666666,"#ed7953"],[0.7777777777777778,"#fb9f3a"],[0.8888888888888888,"#fdca26"],[1.0,"#f0f921"]],"type":"surface"}],"table":[{"cells":{"fill":{"color":"#EBF0F8"},"line":{"color":"white"}},"header":{"fill":{"color":"#C8D4E3"},"line":{"color":"white"}},"type":"table"}]},"layout":{"annotationdefaults":{"arrowcolor":"#2a3f5f","arrowhead":0,"arrowwidth":1},"autotypenumbers":"strict","coloraxis":{"colorbar":{"outlinewidth":0,"ticks":""}},"colorscale":{"diverging":[[0,"#8e0152"],[0.1,"#c51b7d"],[0.2,"#de77ae"],[0.3,"#f1b6da"],[0.4,"#fde0ef"],[0.5,"#f7f7f7"],[0.6,"#e6f5d0"],[0.7,"#b8e186"],[0.8,"#7fbc41"],[0.9,"#4d9221"],[1,"#276419"]],"sequential":[[0.0,"#0d0887"],[0.1111111111111111,"#46039f"],[0.2222222222222222,"#7201a8"],[0.3333333333333333,"#9c179e"],[0.4444444444444444,"#bd3786"],[0.5555555555555556,"#d8576b"],[0.6666666666666666,"#ed7953"],[0.7777777777777778,"#fb9f3a"],[0.8888888888888888,"#fdca26"],[1.0,"#f0f921"]],"sequentialminus":[[0.0,"#0d0887"],[0.1111111111111111,"#46039f"],[0.2222222222222222,"#7201a8"],[0.3333333333333333,"#9c179e"],[0.4444444444444444,"#bd3786"],[0.5555555555555556,"#d8576b"],[0.6666666666666666,"#ed7953"],[0.7777777777777778,"#fb9f3a"],[0.8888888888888888,"#fdca26"],[1.0,"#f0f921"]]},"colorway":["#636efa","#EF553B","#00cc96","#ab63fa","#FFA15A","#19d3f3","#FF6692","#B6E880","#FF97FF","#FECB52"],"font":{"color":"#2a3f5f"},"geo":{"bgcolor":"white","lakecolor":"white","landcolor":"white","showlakes":true,"showland":true,"subunitcolor":"#C8D4E3"},"hoverlabel":{"align":"left"},"hovermode":"closest","paper_bgcolor":"white","plot_bgcolor":"white","polar":{"angularaxis":{"gridcolor":"#EBF0F8","linecolor":"#EBF0F8","ticks":""},"bgcolor":"white","radialaxis":{"gridcolor":"#EBF0F8","linecolor":"#EBF0F8","ticks":""}},"scene":{"xaxis":{"backgroundcolor":"white","gridcolor":"#DFE8F3","gridwidth":2,"linecolor":"#EBF0F8","showbackground":true,"ticks":"","zerolinecolor":"#EBF0F8"},"yaxis":{"backgroundcolor":"white","gridcolor":"#DFE8F3","gridwidth":2,"linecolor":"#EBF0F8","showbackground":true,"ticks":"","zerolinecolor":"#EBF0F8"},"zaxis":{"backgroundcolor":"white","gridcolor":"#DFE8F3","gridwidth":2,"linecolor":"#EBF0F8","showbackground":true,"ticks":"","zerolinecolor":"#EBF0F8"}},"shapedefaults":{"line":{"color":"#2a3f5f"}},"ternary":{"aaxis":{"gridcolor":"#DFE8F3","linecolor":"#A2B1C6","ticks":""},"baxis":{"gridcolor":"#DFE8F3","linecolor":"#A2B1C6","ticks":""},"bgcolor":"white","caxis":{"gridcolor":"#DFE8F3","linecolor":"#A2B1C6","ticks":""}},"title":{"x":0.05},"xaxis":{"automargin":true,"gridcolor":"#EBF0F8","linecolor":"#EBF0F8","ticks":"","title":{"standoff":15},"zerolinecolor":"#EBF0F8","zerolinewidth":2},"yaxis":{"automargin":true,"gridcolor":"#EBF0F8","linecolor":"#EBF0F8","ticks":"","title":{"standoff":15},"zerolinecolor":"#EBF0F8","zerolinewidth":2}}},"xaxis":{"anchor":"y","domain":[0.0,1.0],"scaleanchor":"y","constrain":"domain"},"yaxis":{"anchor":"x","domain":[0.0,1.0],"autorange":"reversed","constrain":"domain"},"coloraxis":{"colorscale":[[0.0,"rgb(165,0,38)"],[0.1,"rgb(215,48,39)"],[0.2,"rgb(244,109,67)"],[0.3,"rgb(253,174,97)"],[0.4,"rgb(254,224,139)"],[0.5,"rgb(255,255,191)"],[0.6,"rgb(217,239,139)"],[0.7,"rgb(166,217,106)"],[0.8,"rgb(102,189,99)"],[0.9,"rgb(26,152,80)"],[1.0,"rgb(0,104,55)"]],"cmin":-1,"cmax":1,"autocolorscale":false},"title":{"text":"Uttarakhand - Spearman rho Between MCDM Ranking Methods"}},                        {"responsive": true}                    )                };            </script>        </div>
 </body>
 </html>
